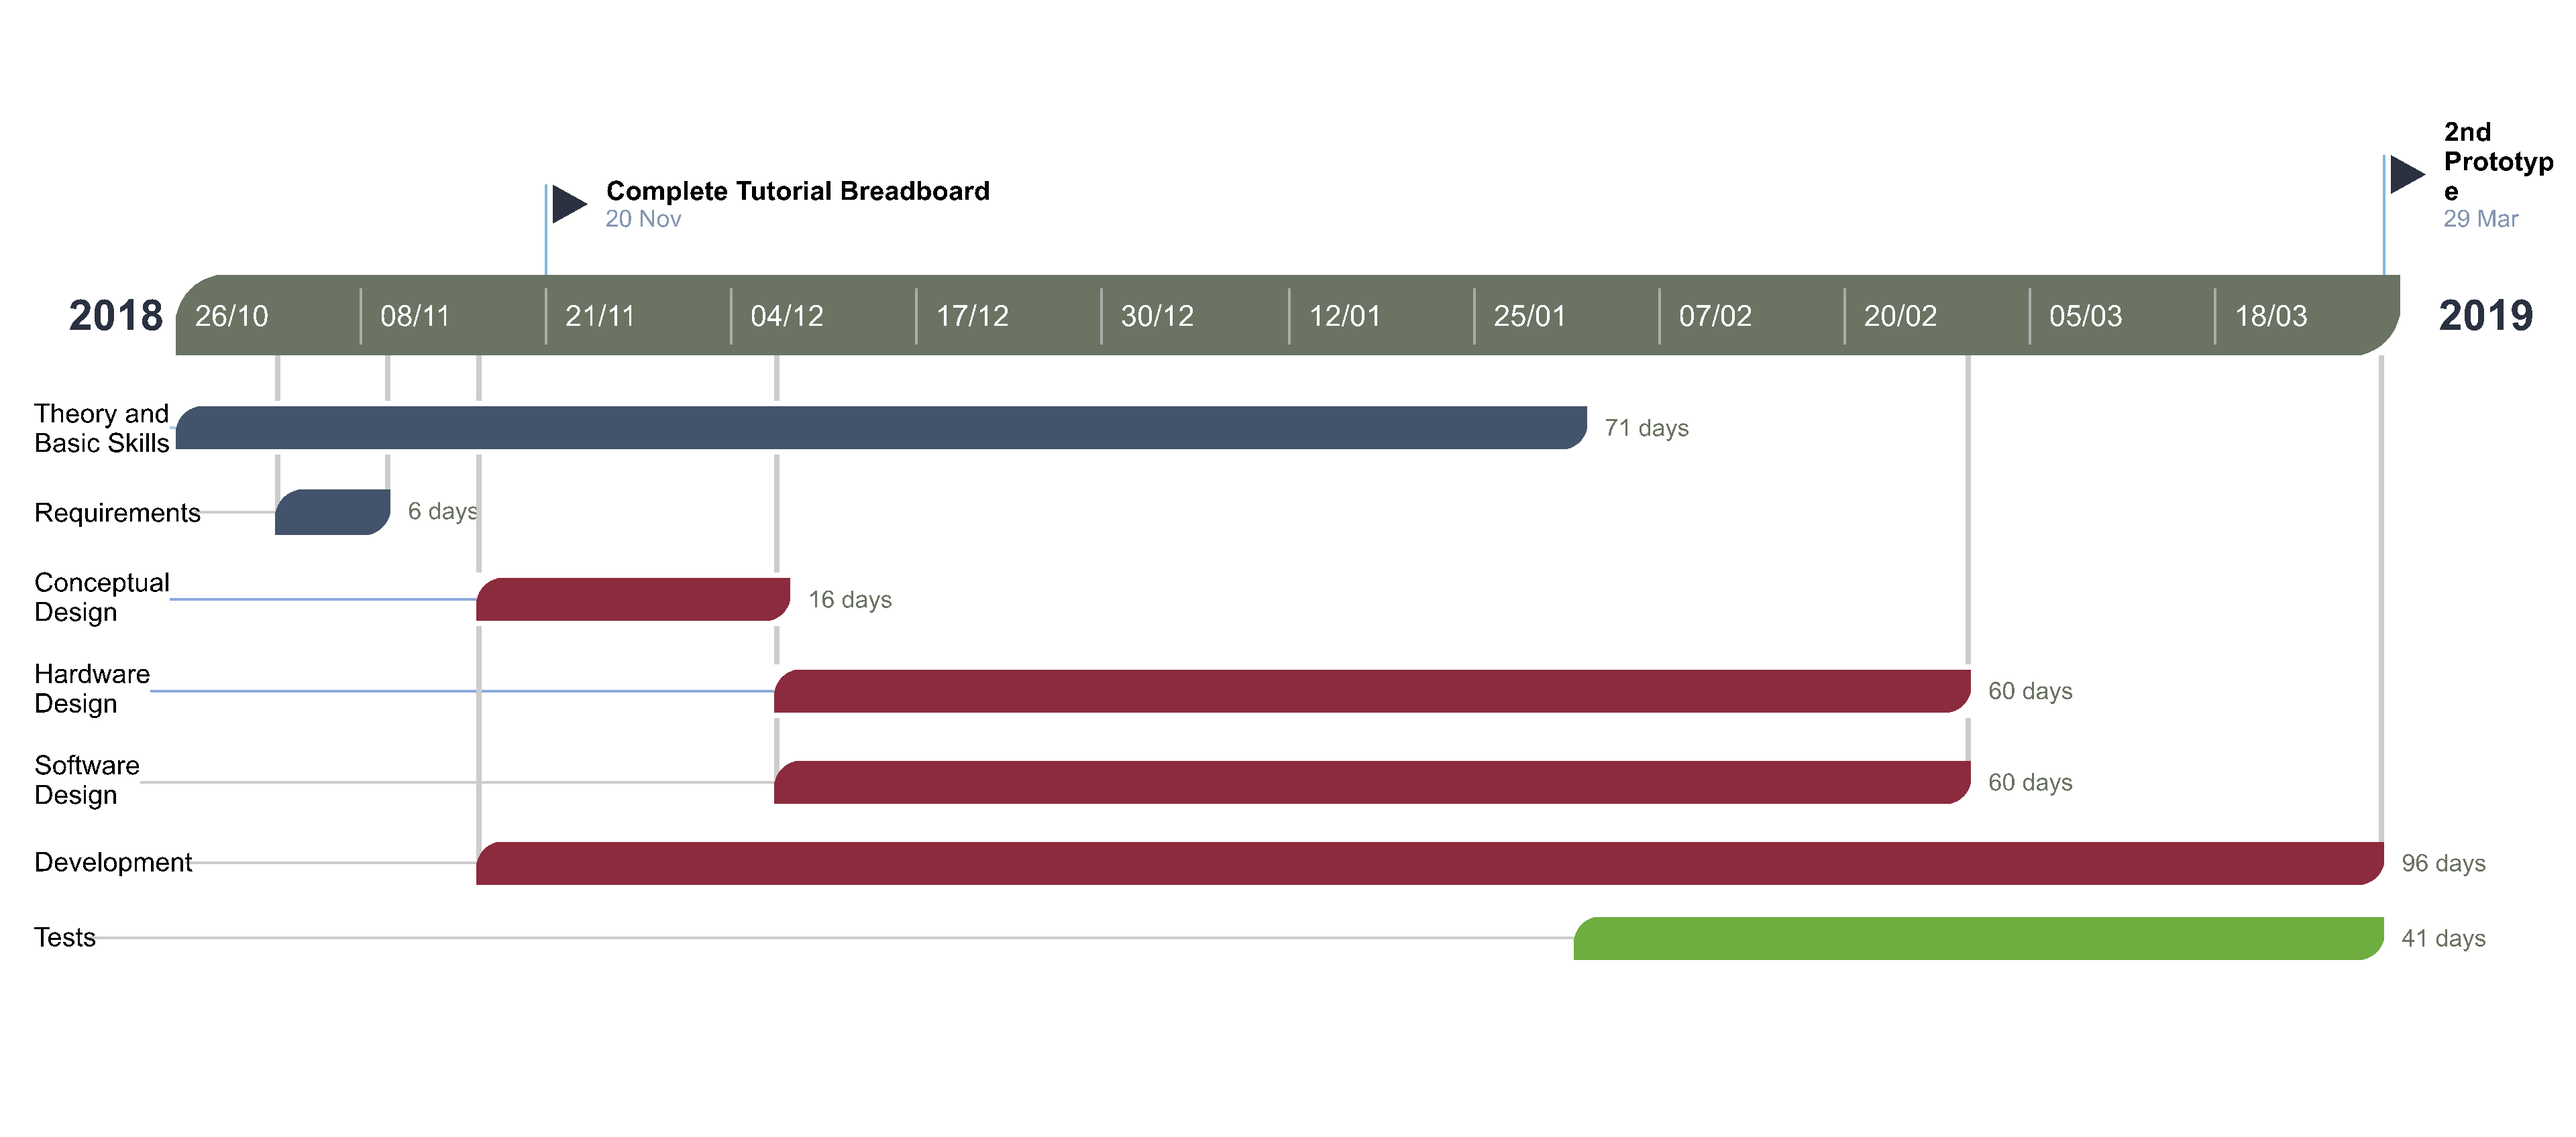
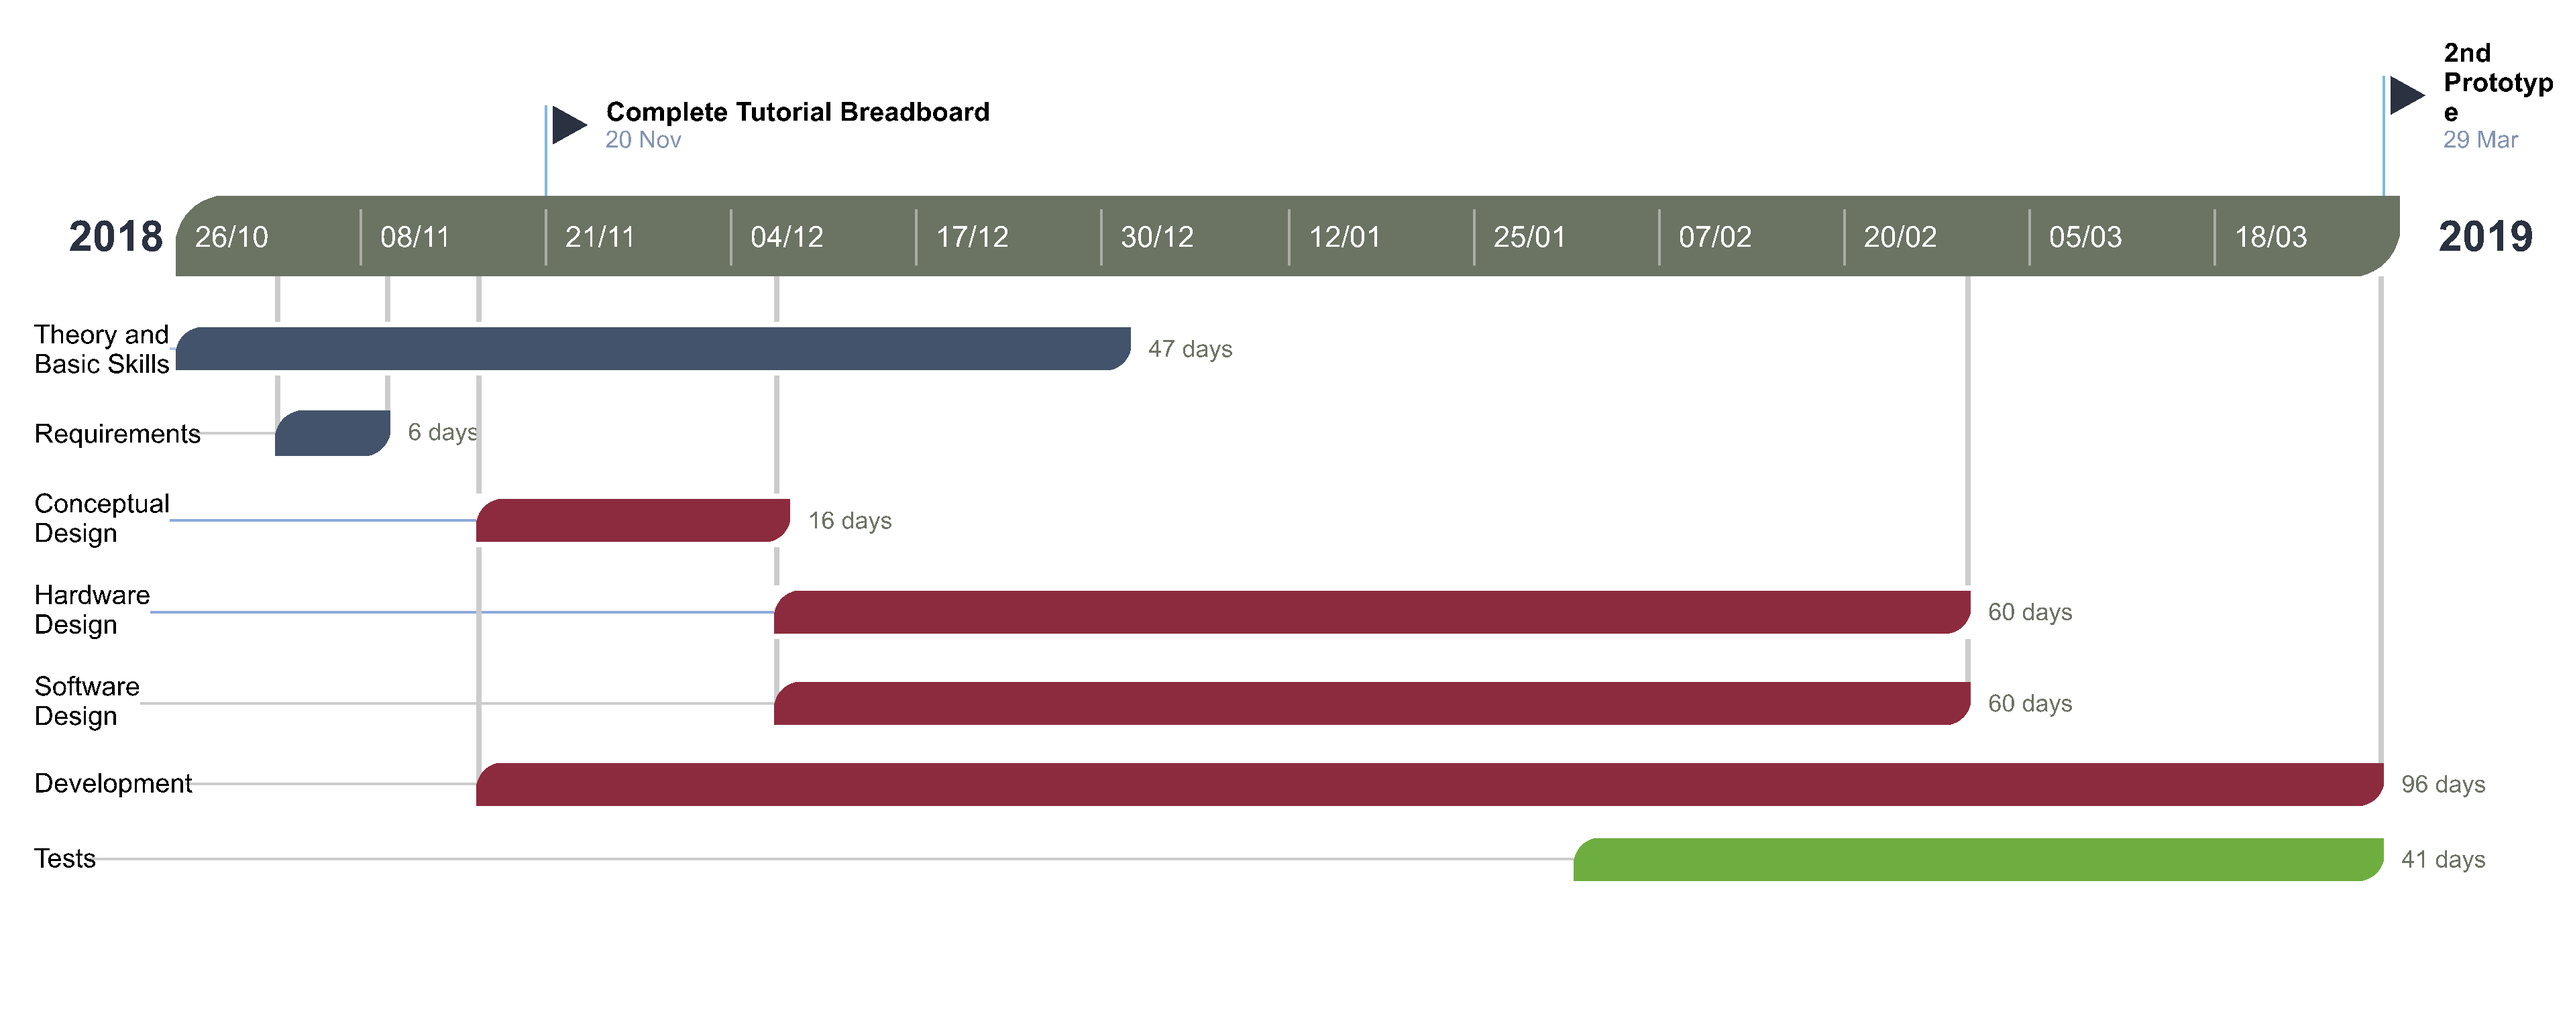
describe work program + add label to test

diff --git a/report/chapters/02-concept-design.tex b/report/chapters/02-concept-design.tex
@@ -2,7 +2,7 @@
 
 In order to set the right design goals and milestones during the semester, adequately estimate the workload and organize the working process in the most effective way, we needed to: analyze the initial design conditions and restrictions, roughly formulate the implementation blocks along with respective skill-sets of all project members and - after that - write down the most suitable working program. Both steps are described in detail below.
 
-\subsection{Initial design conditions} 
+\subsection{Initial design conditions} \label{chap:design_cond}
 The main question to answer was to grasp and implement using the knowledge we had acquired plus the logic behind the "how do we build a robot that should drive in the labyrinth and be able to make intelligent decisions (turns) based on the observations (made by sensors)"?
 
 \noindent 
@@ -34,7 +34,7 @@ Based on those conditions and also tools and devices provided, we came up with t
 \subsection{Work program and Gantt chart}
 In the below Fig. \ref{fig:gantt}, we describe our planned stages within a Gantt chart.
 
-\begin{figure}[h]
+\begin{figure}[H]
     \centering
     \includegraphics[width=1\textwidth]{figures/micromouse-gantt.png}
     \caption{Gantt chart of our progress}
@@ -42,7 +42,7 @@ In the below Fig. \ref{fig:gantt}, we describe our planned stages within a Gantt
 \end{figure}
 
 \noindent
-In the first half of the semester we started off with a basic introduction to electronics engineering. By using the dsPIC30F4012 we followed a practical course and learned to use the Microchip MPLABX environment in order to create and simulate the code for the micromouse. 
+In the first half of the semester we started off with a basic introduction to electrical engineering. By using the microcontroller dsPIC30F4012 we followed a practical course and learned to use the Microchip MPLABX environment in order to create and simulate the code for the software of the micromouse.
 
 \noindent
 The practial course was comprised of the following topics:
@@ -54,10 +54,27 @@ The practial course was comprised of the following topics:
     \item Quadrature Encoders
     \item Analogue Inputs
 \end{itemize}
-During the practial course we applied our learnings onto a breadboard. By doing this we got an idea of what kind of electronic parts we will need to get accustomed with for the creation of the final micromouse. Our acquired knowledge will be described in more detail in the next section.
-\textcolor{red}{Insert image of breadboard}
 
+\noindent
+During the practial course we applied our learnings onto a breadboard. Which can be seen in figure \ref{fig:breadboard}. By doing this we got an idea of what kind of electronic parts we will need to get accustomed with for the creation of the final micromouse. Our acquired knowledge will be described in more detail in the next chapter.
 
+\begin{figure}[H]
+    \centering
+    \includegraphics[width=0.2\textwidth]{figures/filler.png}
+    \caption{\textcolor{red}{First completed breadboard}}
+    \label{fig:breadboard}
+\end{figure}
+
+\noindent
+While going through the practical course, we fetched all the requirements we would need during the preparations of building the micromouse. All of them are described in the previous chapter \ref{chap:design_cond} \\
+
+\noindent
+The former idea of splitting us students into two separate groups was canceled because it took us too long to complete the basic introduction (as it was initially planned) plus the fact that we all were inexperienced in electrical engineering. Instead we formed two teams: One was responsible for the hardware the other one for the software design. \\
+So after all requirements were known and the conceptual design phase was completed, we started with designing the hardware and software. Both are described in more detail in the chapters \ref{chap:hardware} and \ref{chap:software} respectively. \\
+In order to construct a PCB with all the parts we need, we are using Autodesk Eagle. For writing the software we are using the MPLABX environment. \\
+
+\noindent
+The testing part concludes the overall development stage. And because testing is such a crucial element during a development, especially when designing hardware is a part of it, every step has to be done with caution. Hence, a failure of an electrical compound can easily lead to a broken part, which will result in unnecessary costs and time delays. The test results can be found in chapter \ref{chap:tests}. \\
 
 \textcolor{red}{I would suggest to fit here the part with "design decisions based on the aforementioned conditions (justification)"
 \textit{ This is where I'm a bit lost. We could include some "ideal" version of this chart here, but where exactly should we describe all the changes in planning and organization and why they had to be done at each stage of building the prototype and the final version of the mouse?  Should it be described here? Or later in the "problems and challenges"?

diff --git a/report/chapters/06-tests.tex b/report/chapters/06-tests.tex
@@ -1,4 +1,4 @@
-\section{Summary of tests}
+\section{Summary of tests} \label{chap:tests}
 \textcolor{red}{
 Here goes everything practical we could possibly test - for example the speeding curve of the motor, the temperature conditions of the board (when we'll solder it - whether it is able to work without overheating and such) 
 Of course, the PID working values (such as the error convergence rate)
